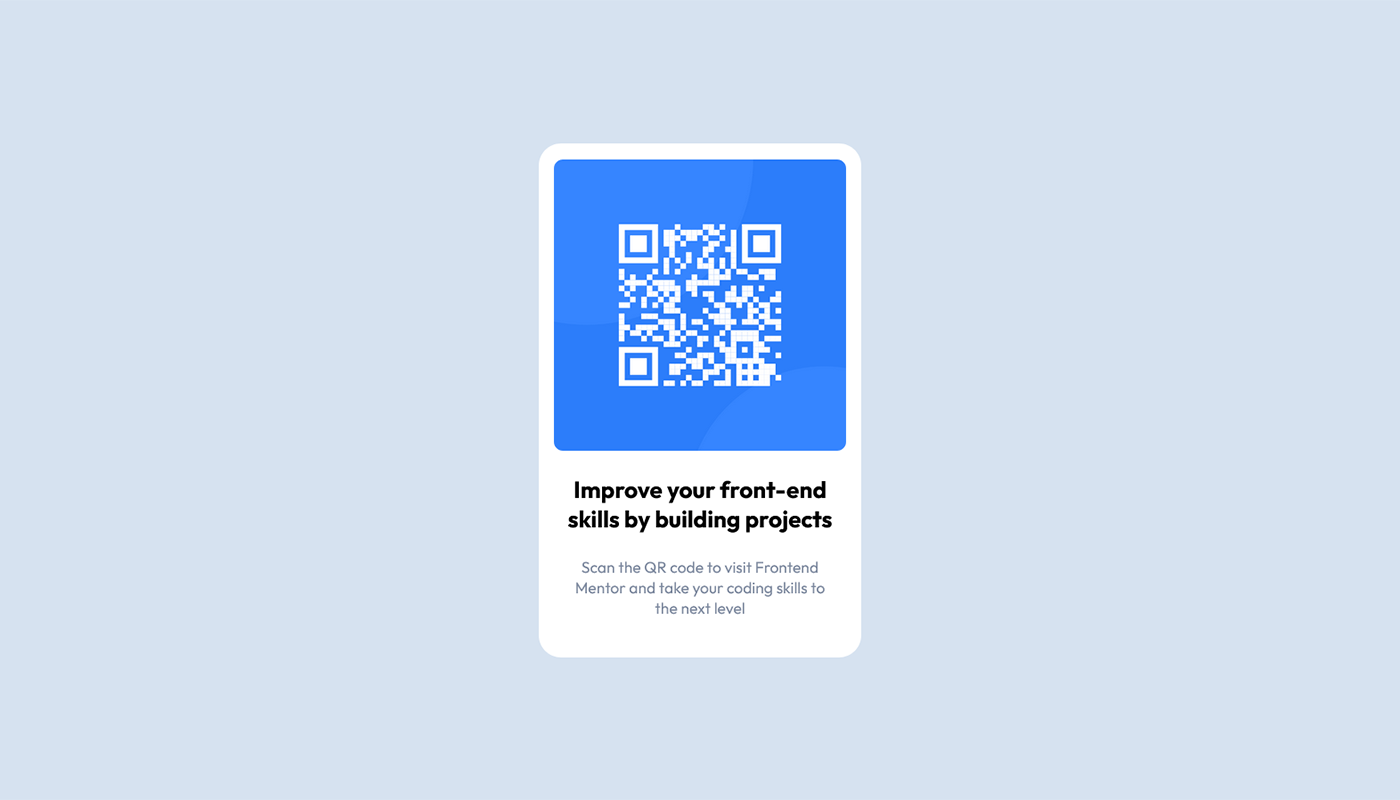
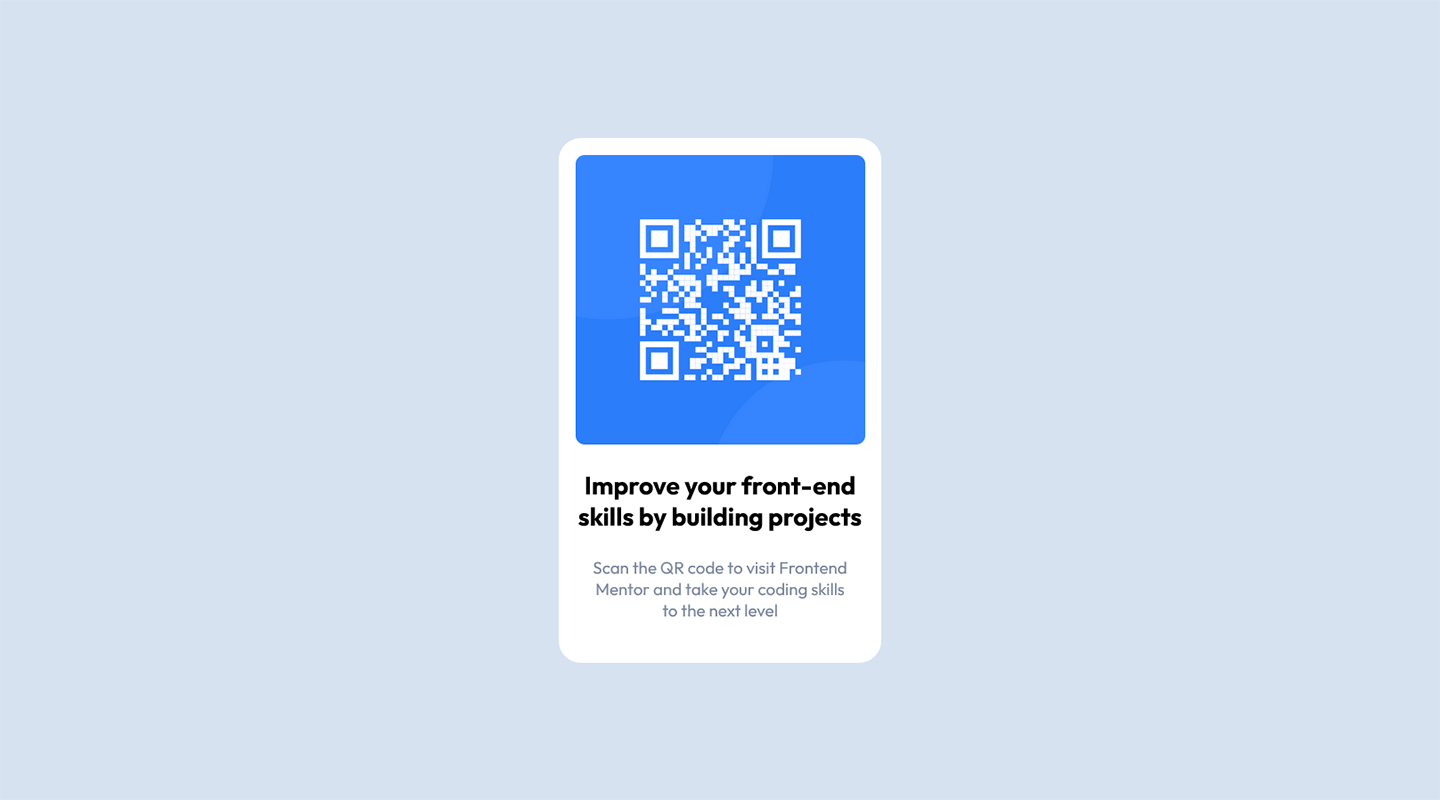
nearly completed

Changed region(s): [[0.3686, 0.1562, 0.6143, 0.5625], [0.3993, 0.5938, 0.6143, 0.7812], [0.3993, 0.8125, 0.6143, 0.8438]]

diff --git a/index.html b/index.html
@@ -73,7 +73,7 @@
     <div class="qrcode">
       <img src="./images/image-qr-code.png" alt="QR Code Image" />
       <h1>Improve your front-end skills by building projects</h1>
-      <p role="definition">Scan the QR code to visit Frontend Mentor and take your coding skills to<br/> the next level</p>
+      <p role="definition">Scan the QR code to visit Frontend Mentor and take your coding skills to the next level</p>
     </div>
   </div>
 </body>
